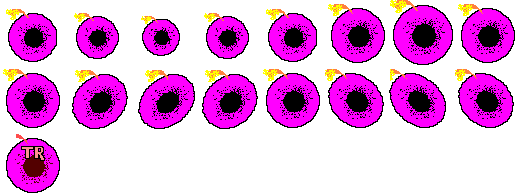
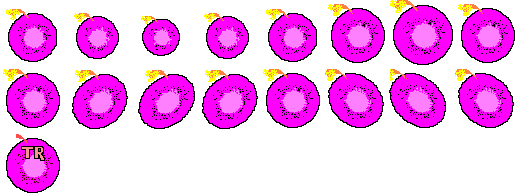
ud

diff --git a/src/com/braids/burncoffeeman/client/ScaledGfxHelper.java b/src/com/braids/burncoffeeman/client/ScaledGfxHelper.java
@@ -14,6 +14,7 @@ import java.util.List;
 import com.braids.burncoffeeman.common.Activity;
 import com.braids.burncoffeeman.common.AnimTilePhase;
 import com.braids.burncoffeeman.common.AnimTilePhaseType;
+import com.braids.burncoffeeman.common.BombPhases;
 import com.braids.burncoffeeman.common.BombType;
 import com.braids.burncoffeeman.common.Direction;
 import com.braids.burncoffeeman.common.Fire;
@@ -23,20 +24,25 @@ import com.braids.burncoffeeman.common.Wall;
 
 public class ScaledGfxHelper {
 
-	private static int                                actualSize    = -1;
-	private static HashMap<PlayerSlot, BufferedImage> mapPlayer     = new HashMap<PlayerSlot, BufferedImage>();
-	private static HashMap<Wall, Image>               mapWall       = new HashMap<Wall, Image>();
-	private static HashMap<FireSlot, List<Image>>     mapFire       = new HashMap<FireSlot, List<Image>>();
+	private static int                                actualSize       = -1;
+	private static HashMap<PlayerSlot, BufferedImage> mapPlayer        = new HashMap<PlayerSlot, BufferedImage>();
+	private static HashMap<Wall, Image>               mapWall          = new HashMap<Wall, Image>();
+	private static HashMap<FireSlot, List<Image>>     mapFire          = new HashMap<FireSlot, List<Image>>();
+	private static HashMap<BombSlot, List<Image>>     mapBomb          = new HashMap<BombSlot, List<Image>>();
 
-	private static ColorFilter                        colorFilter   = new ColorFilter();
+	private static ColorFilter                        colorFilter      = new ColorFilter();
 
-	private static final Color                        fireKeyColor1 = new Color(255, 0, 255);
-	private static final Color                        fireKeyColor2 = new Color(0, 0, 0);
+	private static final Color                        FIRE_KEY_COLOR_1 = new Color(255, 0, 255);
+	private static final Color                        FIRE_KEY_COLOR_2 = new Color(0, 0, 0);
+
+	private static final Color                        BOMB_KEY_COLOR_1 = new Color(255, 0, 255);
+	private static final Color                        BOMB_KEY_COLOR_2 = new Color(255, 128, 255);
 
 	private static void clearCache() {
 		mapPlayer.clear();
 		mapWall.clear();
 		mapFire.clear();
+		mapBomb.clear();
 	}
 
 	public static Image getWall(int size, Wall wall) {
@@ -73,10 +79,10 @@ public class ScaledGfxHelper {
 		if (result == null) {
 			GraphicsTemplateManager gtm = GraphicsTemplateManager.getInstance();
 
-			colorFilter.fromColor1 = fireKeyColor1.getRGB();
+			colorFilter.fromColor1 = FIRE_KEY_COLOR_1.getRGB();
 			colorFilter.toColor1 = ownColor1.getRGB();
 
-			colorFilter.fromColor2 = fireKeyColor2.getRGB();
+			colorFilter.fromColor2 = FIRE_KEY_COLOR_2.getRGB();
 			colorFilter.toColor2 = ownColor2.getRGB();
 
 			result = new ArrayList<Image>();
@@ -89,6 +95,41 @@ public class ScaledGfxHelper {
 		}
 
 		return result.get(phase);
+	}
+
+	public static Image getBomb(int size, BombPhases bombPhase, BombType type, Color ownColor1, Color ownColor2, int phase) {
+		if (actualSize != size) {
+			actualSize = size;
+			clearCache();
+		}
+
+		BombSlot slot = new BombSlot();
+		slot.type = type;
+		slot.bombPhase = bombPhase;
+		slot.ownColor1 = ownColor1;
+		slot.ownColor2 = ownColor2;
+
+		List<Image> result = mapBomb.get(slot);
+
+		if (result == null) {
+			GraphicsTemplateManager gtm = GraphicsTemplateManager.getInstance();
+
+			colorFilter.fromColor1 = BOMB_KEY_COLOR_1.getRGB();
+			colorFilter.toColor1 = ownColor1.getRGB();
+
+			colorFilter.fromColor2 = BOMB_KEY_COLOR_2.getRGB();
+			colorFilter.toColor2 = ownColor2.getRGB();
+
+			result = new ArrayList<Image>();
+			for (BufferedImage origFire : gtm.getBomb(bombPhase, type)) {
+				ImageProducer ip = new FilteredImageSource(origFire.getSource(), colorFilter);
+				Image coloredImage = Toolkit.getDefaultToolkit().createImage(ip);
+				result.add(coloredImage.getScaledInstance(size + 1, size + 1, Image.SCALE_REPLICATE));
+			}
+			mapBomb.put(slot, result);
+		}
+
+		return result.get(phase % result.size());
 	}
 
 	private static class ColorFilter extends RGBImageFilter {
@@ -186,17 +227,18 @@ public class ScaledGfxHelper {
 
 	private static class BombSlot {
 
-		Color    ownColor1;
-		Color    ownColor2;
-		BombType type;
+		Color      ownColor1;
+		Color      ownColor2;
+		BombType   type;
+		BombPhases bombPhase;
 
 		public boolean equals(Object obj) {
 			BombSlot other = (BombSlot) obj;
-			return ownColor1.equals(other.ownColor1) && ownColor2.equals(other.ownColor2) && type.equals(other.type);
+			return ownColor1.equals(other.ownColor1) && ownColor2.equals(other.ownColor2) && type.equals(other.type) && bombPhase.equals(other.bombPhase);
 		}
 
 		public int hashCode() {
-			return ownColor1.hashCode() ^ ownColor2.hashCode() ^ type.hashCode();
+			return ownColor1.hashCode() ^ ownColor2.hashCode() ^ type.hashCode() ^ bombPhase.hashCode();
 		}
 	}
 }

diff --git a/src/com/braids/burncoffeeman/server/Bomb.java b/src/com/braids/burncoffeeman/server/Bomb.java
@@ -18,7 +18,6 @@ public class Bomb {
 	private boolean            firstCycle;
 	private boolean            stateChanged;
 	private Direction          direction;
-	private BombPhases         phase;
 	private int                flyingTargetX;
 	private int                flyingTargetY;
 	/** -1: don't tick */
@@ -102,7 +101,7 @@ public class Bomb {
 
 		LevelModel levelModel = GameManager.getInstance().getLevelModel();
 
-		if (phase == BombPhases.FLYING) {
+		if (getPhase() == BombPhases.FLYING) {
 			stateChanged = true;
 			int newPosX = getX() + getDirection().getXMultiplier() * Constants.BOMB_FLYING_SPEED;
 			int newPosY = getY() + getDirection().getYMultiplier() * Constants.BOMB_FLYING_SPEED;
@@ -165,7 +164,7 @@ public class Bomb {
 				gm.validateAndSetFlyingTargetPosX(this, getFlyingTargetX() + getDirectionXMultiplier() * Constants.LEVEL_COMPONENT_GRANULARITY);
 				gm.validateAndSetFlyingTargetPosY(this, getFlyingTargetY() + getDirectionYMultiplier() * Constants.LEVEL_COMPONENT_GRANULARITY);
 			}
-		} else if (phase == BombPhases.ROLLING) {
+		} else if (getPhase() == BombPhases.ROLLING) {
 			stateChanged = true;
 			if (gm.canBombRollToComponentPosition(this, getComponentPosX() + getDirectionXMultiplier(), getComponentPosY() + getDirectionYMultiplier())) {
 				// if (MathHelper.checkRandomEvent(model.getCrazyPercent() /
@@ -214,7 +213,7 @@ public class Bomb {
 			stateChanged = true;
 		}
 
-		if (phase == BombPhases.ROLLING || phase == BombPhases.STANDING) {
+		if (getPhase() == BombPhases.ROLLING || getPhase() == BombPhases.STANDING) {
 			if (tickingCountdown == 0) {
 				setPhase(BombPhases.ABOUT_TO_DETONATE);
 				tickingCountdown--;
@@ -237,9 +236,9 @@ public class Bomb {
 	}
 
 	public void setPhase(BombPhases phase) {
-		if (this.phase != phase) {
+		if (getPhase() != phase) {
 			stateChanged = true;
-			this.phase = phase;
+			model.setBombPhase(phase);
 			if (phase == BombPhases.FLYING) {
 				// tickingCountdown = -1;
 			} else if (phase == BombPhases.DETONATED) {
@@ -253,7 +252,7 @@ public class Bomb {
 	}
 
 	public BombPhases getPhase() {
-		return this.phase;
+		return model.getBombPhase();
 	}
 
 	public int getFlyingTargetX() {
@@ -289,11 +288,11 @@ public class Bomb {
 	}
 
 	public boolean isAboutToDetonate() {
-		return phase == BombPhases.ABOUT_TO_DETONATE;
+		return getPhase() == BombPhases.ABOUT_TO_DETONATE;
 	}
 
 	public boolean isDetonated() {
-		return phase == BombPhases.DETONATED;
+		return getPhase() == BombPhases.DETONATED;
 	}
 
 	public void setTriggererPlayer(int triggerPlayer) {

diff --git a/src/com/braids/burncoffeeman/common/BombModel.java b/src/com/braids/burncoffeeman/common/BombModel.java
@@ -9,11 +9,12 @@ public class BombModel implements CoderDecoder {
 	int          y;
 	byte         z;
 	BombType     type;
+	BombPhases   bombPhase;
 	byte         bombOwnerId;
 	private byte range;
 
 	public byte[] code() {
-		ByteBuffer bb = ByteBuffer.allocate(1 + 10);
+		ByteBuffer bb = ByteBuffer.allocate(1 + 11);
 
 		bb.put((byte) PacketMessageType.BOMB.ordinal());
 
@@ -22,6 +23,7 @@ public class BombModel implements CoderDecoder {
 		Helper.putShortIntToBuffer(bb, y);
 		bb.put(z);
 		bb.put((byte) type.ordinal());
+		bb.put((byte) bombPhase.ordinal());
 		bb.put(bombOwnerId);
 		bb.put(range);
 		return bb.array();
@@ -33,10 +35,11 @@ public class BombModel implements CoderDecoder {
 		y = Helper.bytesToInt(bytes[offset + 4], bytes[offset + 5]);
 		z = bytes[offset + 6];
 		type = BombType.values()[bytes[offset + 7]];
-		bombOwnerId = bytes[offset + 8];
-		range = bytes[offset + 9];
+		bombPhase = BombPhases.values()[bytes[offset + 8]];
+		bombOwnerId = bytes[offset + 9];
+		range = bytes[offset + 10];
 
-		return 10;
+		return 11;
 	}
 
 	public int getX() {
@@ -71,7 +74,7 @@ public class BombModel implements CoderDecoder {
 		this.type = type;
 	}
 
-	public byte getBombOwnerId() {
+	public int getBombOwnerId() {
 		return this.bombOwnerId;
 	}
 
@@ -93,5 +96,13 @@ public class BombModel implements CoderDecoder {
 
 	public int getRange() {
 		return Helper.byteToInt(range);
+	}
+
+	public BombPhases getBombPhase() {
+		return this.bombPhase;
+	}
+
+	public void setBombPhase(BombPhases bombPhase) {
+		this.bombPhase = bombPhase;
 	}
 }

diff --git a/src/com/braids/burncoffeeman/common/GraphicsTemplateManager.java b/src/com/braids/burncoffeeman/common/GraphicsTemplateManager.java
@@ -391,6 +391,7 @@ public class GraphicsTemplateManager {
 		List<BufferedImage> result = mapFire.get(fire);
 
 		if (result == null) {
+			// prevent initial npe errors
 			result = new ArrayList<BufferedImage>(20);
 			for (int i = 0; i < 20; i++) {
 				result.add(dummyImage);
@@ -400,19 +401,15 @@ public class GraphicsTemplateManager {
 		return result;
 	}
 
-	public List<BufferedImage> getBomb(BombType type) {
-		switch (type) {
-			case JELLY:
-			case NORMAL:
-			case REMOVE:
-			case RUSTY:
-				return lstBombStandingAnim;
-			case TIMER:
-				return lstBombTimerAnim;
-			default:
-				throw new RuntimeException("Invalid state");
+	public List<BufferedImage> getBomb(BombPhases bombPhase, BombType type) {
+		if (bombPhase == BombPhases.ROLLING || bombPhase == BombPhases.FLYING) {
+			return lstBombMovingAnim;
 		}
-		// TODO
-		// return lstBombMovingAnim;
+
+		if (type == BombType.TIMER) {
+			return lstBombTimerAnim;
+		}
+
+		return lstBombStandingAnim;
 	}
 }

diff --git a/src/com/braids/burncoffeeman/client/Displayer.java b/src/com/braids/burncoffeeman/client/Displayer.java
@@ -2,6 +2,7 @@ package com.braids.burncoffeeman.client;
 
 import java.awt.Color;
 import java.awt.Graphics;
+import java.awt.Image;
 import java.awt.event.ActionEvent;
 import java.awt.event.ActionListener;
 import java.awt.image.BufferedImage;
@@ -90,8 +91,10 @@ public class Displayer extends JPanel {
 			int x = (int) ((b.getX() - Constants.COMPONENT_SIZE_IN_VIRTUAL / 2) / divider);
 			int y = (int) ((b.getY() - Constants.COMPONENT_SIZE_IN_VIRTUAL / 2) / divider);
 
-			g.setColor(Color.BLACK);
-			g.fillOval(x, y, componentSize, componentSize);
+			PlayerInfoModel playerModel = players.getPlayerInfoModel(b.getBombOwnerId());
+			Image bombGfx = ScaledGfxHelper.getBomb(componentSize, b.getBombPhase(), b.getType(), playerModel.getColor1(), playerModel.getColor2(),
+			        animationCounter * 8 / Constants.MAIN_CYCLE_PER_SEC & 255);
+			g.drawImage(bombGfx, x, y, null);
 		}
 
 		List<PlayerModel> lstPlayers = players.getPlayerModels();

diff --git a/src/com/braids/burncoffeeman/client/Players.java b/src/com/braids/burncoffeeman/client/Players.java
@@ -29,7 +29,7 @@ public class Players {
 		mapPlayerInfoModel.put(data.getPlayerId(), data);
 	}
 
-	public synchronized PlayerInfoModel getPlayerInfoModel(Integer id) {
+	public synchronized PlayerInfoModel getPlayerInfoModel(int id) {
 		return mapPlayerInfoModel.get(id);
 	}
 }
